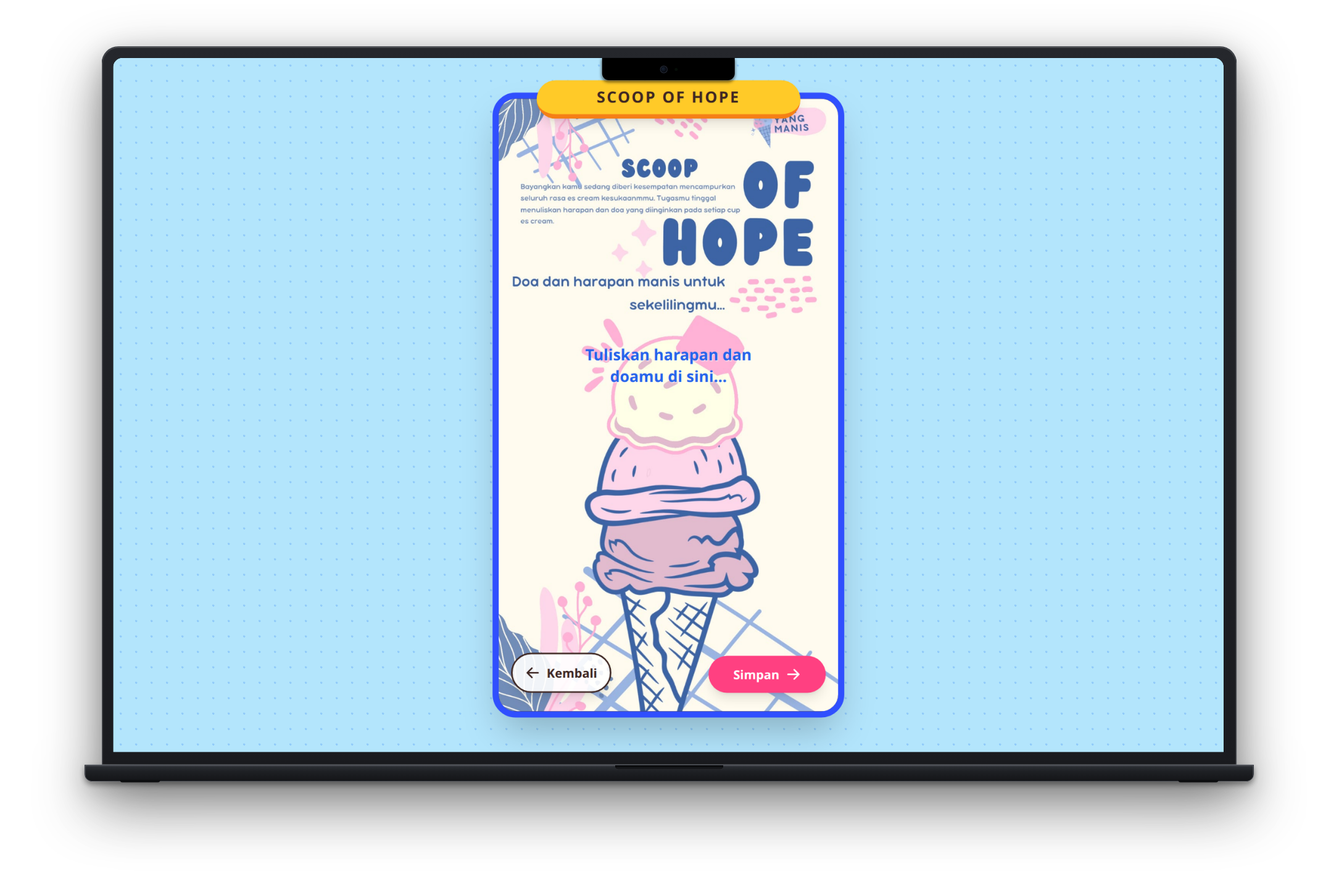
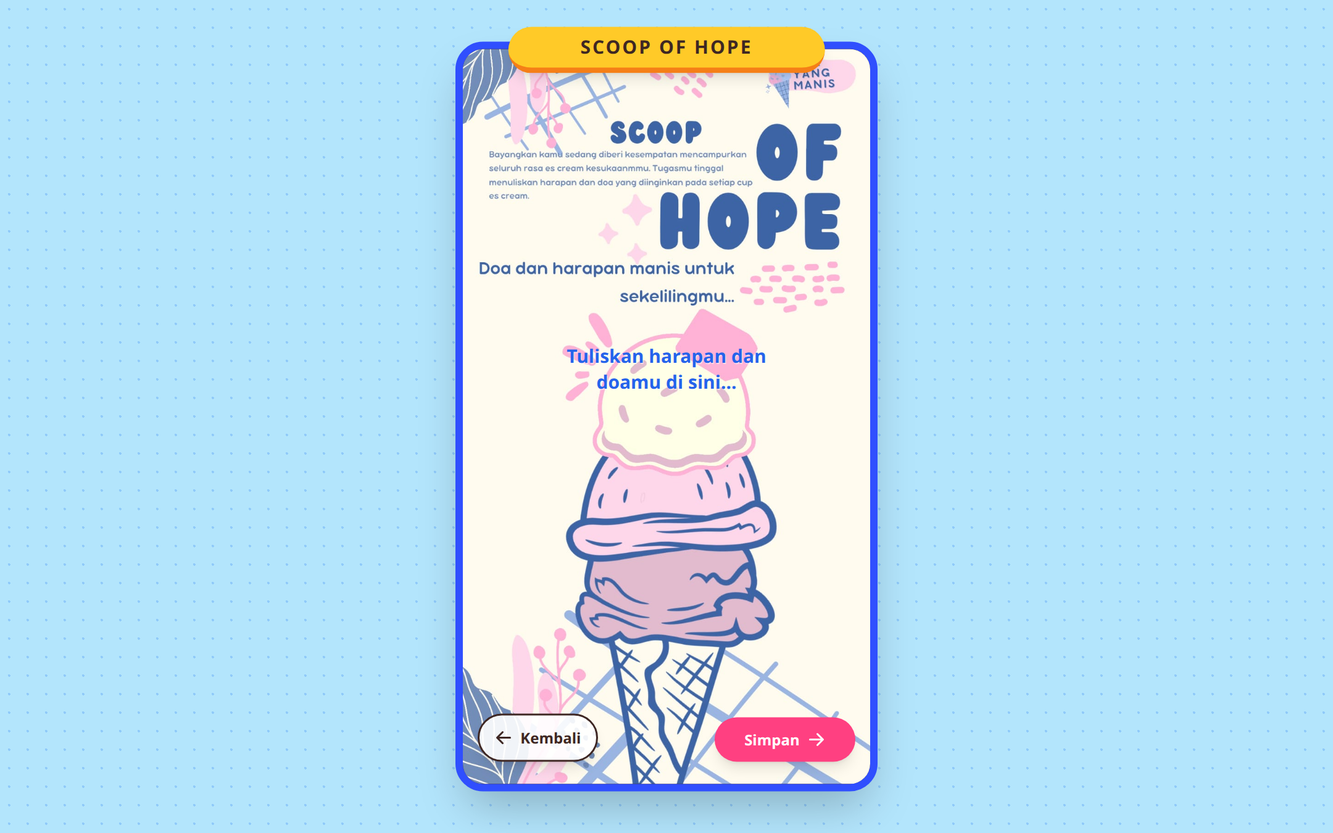
docs: standardize README structure (Judul, Ringkasan, Badge, Live URL, Screenshot, Fitur, Stack, Local Setup, Author), remove slop device frames, verify real screenshots

diff --git a/README.md b/README.md
@@ -1,8 +1,6 @@
 # Book Games
 
-> Interactive gamified educational platform and teacher gradebook built with Next.js 14 and React 18.
-
-Book Games is an educational web application built with Next.js 14 (App Router) and SQLite, migrated from a legacy Spring Boot 3 & MongoDB web application (`legacy-java/`). It features 30 interactive mini-game levels across 5 psychological well-being dimensions, a student adventure progress map with achievement badges, and a teacher portal for student gradebook tracking and Excel export.
+> Platform pembelajaran interaktif berbasis gamifikasi dan buku nilai guru dengan 30 level mini-game refleksi psikologis anak.
 
 [![Next.js](https://img.shields.io/badge/Next.js-14.2.35-black?style=flat-square&logo=nextdotjs)](https://nextjs.org/)
 [![React 18](https://img.shields.io/badge/React-18-61DAFB?style=flat-square&logo=react&logoColor=black)](https://react.dev/)
@@ -10,110 +8,68 @@ Book Games is an educational web application built with Next.js 14 (App Router) 
 [![NextAuth.js](https://img.shields.io/badge/Auth-NextAuth.js_v4-blueviolet?style=flat-square)](https://next-auth.js.org/)
 [![Tailwind CSS](https://img.shields.io/badge/Tailwind-v3.3-38BDF8?style=flat-square&logo=tailwindcss&logoColor=white)](https://tailwindcss.com/)
 [![TypeScript](https://img.shields.io/badge/TypeScript-5.0-3178C6?style=flat-square&logo=typescript&logoColor=white)](https://www.typescriptlang.org/)
+[![Live Demo](https://img.shields.io/badge/Demo-book--games.widifirmaan.web.id-10B981?style=flat-square)](https://book-games.widifirmaan.web.id)
 
 ---
 
-## Showcase
+## Live URL
 
-### Core Platform & Portals
-
-| Desktop | Mobile |
-| :---: | :---: |
-| **Book Games Portal Home Desktop**<br>![Book Games Portal Home Desktop](screenshots/Book%20Games%20Portal%20Home%20Desktop.png) | **Book Games Portal Home Mobile**<br>![Book Games Portal Home Mobile](screenshots/Book%20Games%20Portal%20Home%20Mobile.png) |
-| **Unified Role Auth Portal Desktop**<br>![Unified Role Auth Portal Desktop](screenshots/Unified%20Role%20Auth%20Portal%20Desktop.png) | **Unified Role Auth Portal Mobile**<br>![Unified Role Auth Portal Mobile](screenshots/Unified%20Role%20Auth%20Portal%20Mobile.png) |
-| **Student Adventure Map Desktop**<br>![Student Adventure Map Desktop](screenshots/Student%20Adventure%20Map%20Desktop.png) | **Student Adventure Map Mobile**<br>![Student Adventure Map Mobile](screenshots/Student%20Adventure%20Map%20Mobile.png) |
-| **Teacher Gradebook Analytics Desktop**<br>![Teacher Gradebook Analytics Desktop](screenshots/Teacher%20Gradebook%20Analytics%20Desktop.png) | **Teacher Gradebook Analytics Mobile**<br>![Teacher Gradebook Analytics Mobile](screenshots/Teacher%20Gradebook%20Analytics%20Mobile.png) |
-
-### Dimension 1: Self Acceptance (Levels 1 – 7)
-
-| Desktop | Mobile |
-| :---: | :---: |
-| **Level 1: Word Search Arena Desktop**<br>![Level 1 Word Search Arena Desktop](screenshots/Level%201%20Word%20Search%20Arena%20Desktop.png) | **Level 1: Word Search Arena Mobile**<br>![Level 1 Word Search Arena Mobile](screenshots/Level%201%20Word%20Search%20Arena%20Mobile.png) |
-| **Level 2: Gambar Ekspresi Desktop**<br>![Level 2 Gambar Ekspresi Desktop](screenshots/Level%202%20Gambar%20Ekspresi%20Desktop.png) | **Level 2: Gambar Ekspresi Mobile**<br>![Level 2 Gambar Ekspresi Mobile](screenshots/Level%202%20Gambar%20Ekspresi%20Mobile.png) |
-| **Level 3: Balon Harapan Desktop**<br>![Level 3 Balon Harapan Desktop](screenshots/Level%203%20Balon%20Harapan%20Desktop.png) | **Level 3: Balon Harapan Mobile**<br>![Level 3 Balon Harapan Mobile](screenshots/Level%203%20Balon%20Harapan%20Mobile.png) |
-| **Level 4: Refleksi Diri Desktop**<br>![Level 4 Refleksi Diri Desktop](screenshots/Level%204%20Refleksi%20Diri%20Desktop.png) | **Level 4: Refleksi Diri Mobile**<br>![Level 4 Refleksi Diri Mobile](screenshots/Level%204%20Refleksi%20Diri%20Mobile.png) |
-| **Level 5: Rings Desktop**<br>![Level 5 Rings Desktop](screenshots/Level%205%20Rings%20Desktop.png) | **Level 5: Rings Mobile**<br>![Level 5 Rings Mobile](screenshots/Level%205%20Rings%20Mobile.png) |
-| **Level 6: Refleksi Cermin Desktop**<br>![Level 6 Refleksi Cermin Desktop](screenshots/Level%206%20Refleksi%20Cermin%20Desktop.png) | **Level 6: Refleksi Cermin Mobile**<br>![Level 6 Refleksi Cermin Mobile](screenshots/Level%206%20Refleksi%20Cermin%20Mobile.png) |
-| **Level 7: Refleksi Kotak Desktop**<br>![Level 7 Refleksi Kotak Desktop](screenshots/Level%207%20Refleksi%20Kotak%20Desktop.png) | **Level 7: Refleksi Kotak Mobile**<br>![Level 7 Refleksi Kotak Mobile](screenshots/Level%207%20Refleksi%20Kotak%20Mobile.png) |
-
-### Dimension 2: Environmental (Levels 8 – 12)
-
-| Desktop | Mobile |
-| :---: | :---: |
-| **Level 8: Anxiety Elixir Desktop**<br>![Level 8 Anxiety Elixir Desktop](screenshots/Level%208%20Anxiety%20Elixir%20Desktop.png) | **Level 8: Anxiety Elixir Mobile**<br>![Level 8 Anxiety Elixir Mobile](screenshots/Level%208%20Anxiety%20Elixir%20Mobile.png) |
-| **Level 9: Refleksi Lingkaran Desktop**<br>![Level 9 Refleksi Lingkaran Desktop](screenshots/Level%209%20Refleksi%20Lingkaran%20Desktop.png) | **Level 9: Refleksi Lingkaran Mobile**<br>![Level 9 Refleksi Lingkaran Mobile](screenshots/Level%209%20Refleksi%20Lingkaran%20Mobile.png) |
-| **Level 10: Ekspresi Bebas Canvas Desktop**<br>![Level 10 Ekspresi Bebas Canvas Desktop](screenshots/Level%2010%20Ekspresi%20Bebas%20Canvas%20Desktop.png) | **Level 10: Ekspresi Bebas Canvas Mobile**<br>![Level 10 Ekspresi Bebas Canvas Mobile](screenshots/Level%2010%20Ekspresi%20Bebas%20Canvas%20Mobile.png) |
-| **Level 11: Soundtrack Musik Desktop**<br>![Level 11 Soundtrack Musik Desktop](screenshots/Level%2011%20Soundtrack%20Musik%20Desktop.png) | **Level 11: Soundtrack Musik Mobile**<br>![Level 11 Soundtrack Musik Mobile](screenshots/Level%2011%20Soundtrack%20Musik%20Mobile.png) |
-| **Level 12: Are You Okay Desktop**<br>![Level 12 Are You Okay Desktop](screenshots/Level%2012%20Are%20You%20Okay%20Desktop.png) | **Level 12: Are You Okay Mobile**<br>![Level 12 Are You Okay Mobile](screenshots/Level%2012%20Are%20You%20Okay%20Mobile.png) |
-
-### Dimension 3: Personal Growth (Levels 13 – 24)
-
-| Desktop | Mobile |
-| :---: | :---: |
-| **Level 13: Pohon Harapan Desktop**<br>![Level 13 Pohon Harapan Desktop](screenshots/Level%2013%20Pohon%20Harapan%20Desktop.png) | **Level 13: Pohon Harapan Mobile**<br>![Level 13 Pohon Harapan Mobile](screenshots/Level%2013%20Pohon%20Harapan%20Mobile.png) |
-| **Level 14: Mimpi Terbesar Desktop**<br>![Level 14 Mimpi Terbesar Desktop](screenshots/Level%2014%20Mimpi%20Terbesar%20Desktop.png) | **Level 14: Mimpi Terbesar Mobile**<br>![Level 14 Mimpi Terbesar Mobile](screenshots/Level%2014%20Mimpi%20Terbesar%20Mobile.png) |
-| **Level 15: Refleksi Diri Desktop**<br>![Level 15 Refleksi Diri Desktop](screenshots/Level%2015%20Refleksi%20Diri%20Desktop.png) | **Level 15: Refleksi Diri Mobile**<br>![Level 15 Refleksi Diri Mobile](screenshots/Level%2015%20Refleksi%20Diri%20Mobile.png) |
-| **Level 16: Imajinasi Awan Desktop**<br>![Level 16 Imajinasi Awan Desktop](screenshots/Level%2016%20Imajinasi%20Awan%20Desktop.png) | **Level 16: Imajinasi Awan Mobile**<br>![Level 16 Imajinasi Awan Mobile](screenshots/Level%2016%20Imajinasi%20Awan%20Mobile.png) |
-| **Level 17: Rencana Sticky Notes Desktop**<br>![Level 17 Rencana Sticky Notes Desktop](screenshots/Level%2017%20Rencana%20Sticky%20Notes%20Desktop.png) | **Level 17: Rencana Sticky Notes Mobile**<br>![Level 17 Rencana Sticky Notes Mobile](screenshots/Level%2017%20Rencana%20Sticky%20Notes%20Mobile.png) |
-| **Level 18: Tangga Perubahan 1 Desktop**<br>![Level 18 Tangga Perubahan 1 Desktop](screenshots/Level%2018%20Tangga%20Perubahan%201%20Desktop.png) | **Level 18: Tangga Perubahan 1 Mobile**<br>![Level 18 Tangga Perubahan 1 Mobile](screenshots/Level%2018%20Tangga%20Perubahan%201%20Mobile.png) |
-| **Level 19: Tangga Perubahan 2 Desktop**<br>![Level 19 Tangga Perubahan 2 Desktop](screenshots/Level%2019%20Tangga%20Perubahan%202%20Desktop.png) | **Level 19: Tangga Perubahan 2 Mobile**<br>![Level 19 Tangga Perubahan 2 Mobile](screenshots/Level%2019%20Tangga%20Perubahan%202%20Mobile.png) |
-| **Level 20: Tangga Perubahan 3 Desktop**<br>![Level 20 Tangga Perubahan 3 Desktop](screenshots/Level%2020%20Tangga%20Perubahan%203%20Desktop.png) | **Level 20: Tangga Perubahan 3 Mobile**<br>![Level 20 Tangga Perubahan 3 Mobile](screenshots/Level%2020%20Tangga%20Perubahan%203%20Mobile.png) |
-| **Level 21: Tangga Perubahan 4 Desktop**<br>![Level 21 Tangga Perubahan 4 Desktop](screenshots/Level%2021%20Tangga%20Perubahan%204%20Desktop.png) | **Level 21: Tangga Perubahan 4 Mobile**<br>![Level 21 Tangga Perubahan 4 Mobile](screenshots/Level%2021%20Tangga%20Perubahan%204%20Mobile.png) |
-| **Level 22: Tangga Perubahan 5 Desktop**<br>![Level 22 Tangga Perubahan 5 Desktop](screenshots/Level%2022%20Tangga%20Perubahan%205%20Desktop.png) | **Level 22: Tangga Perubahan 5 Mobile**<br>![Level 22 Tangga Perubahan 5 Mobile](screenshots/Level%2022%20Tangga%20Perubahan%205%20Mobile.png) |
-| **Level 23: Tangga Perubahan 6 Desktop**<br>![Level 23 Tangga Perubahan 6 Desktop](screenshots/Level%2023%20Tangga%20Perubahan%206%20Desktop.png) | **Level 23: Tangga Perubahan 6 Mobile**<br>![Level 23 Tangga Perubahan 6 Mobile](screenshots/Level%2023%20Tangga%20Perubahan%206%20Mobile.png) |
-| **Level 24: Tangga Perubahan 7 Desktop**<br>![Level 24 Tangga Perubahan 7 Desktop](screenshots/Level%2024%20Tangga%20Perubahan%207%20Desktop.png) | **Level 24: Tangga Perubahan 7 Mobile**<br>![Level 24 Tangga Perubahan 7 Mobile](screenshots/Level%2024%20Tangga%20Perubahan%207%20Mobile.png) |
-
-### Dimension 4: Purpose in Life (Levels 25 – 29)
-
-| Desktop | Mobile |
-| :---: | :---: |
-| **Level 25: Eksplorasi Diri Desktop**<br>![Level 25 Eksplorasi Diri Desktop](screenshots/Level%2025%20Eksplorasi%20Diri%20Desktop.png) | **Level 25: Eksplorasi Diri Mobile**<br>![Level 25 Eksplorasi Diri Mobile](screenshots/Level%2025%20Eksplorasi%20Diri%20Mobile.png) |
-| **Level 26: Lingkar Waktu Desktop**<br>![Level 26 Lingkar Waktu Desktop](screenshots/Level%2026%20Lingkar%20Waktu%20Desktop.png) | **Level 26: Lingkar Waktu Mobile**<br>![Level 26 Lingkar Waktu Mobile](screenshots/Level%2026%20Lingkar%20Waktu%20Mobile.png) |
-| **Level 27: Peta Bersyukur Desktop**<br>![Level 27 Peta Bersyukur Desktop](screenshots/Level%2027%20Peta%20Bersyukur%20Desktop.png) | **Level 27: Peta Bersyukur Mobile**<br>![Level 27 Peta Bersyukur Mobile](screenshots/Level%2027%20Peta%20Bersyukur%20Mobile.png) |
-| **Level 28: Kompas Tujuan Desktop**<br>![Level 28 Kompas Tujuan Desktop](screenshots/Level%2028%20Kompas%20Tujuan%20Desktop.png) | **Level 28: Kompas Tujuan Mobile**<br>![Level 28 Kompas Tujuan Mobile](screenshots/Level%2028%20Kompas%20Tujuan%20Mobile.png) |
-| **Level 29: Surat Masa Depan Desktop**<br>![Level 29 Surat Masa Depan Desktop](screenshots/Level%2029%20Surat%20Masa%20Depan%20Desktop.png) | **Level 29: Surat Masa Depan Mobile**<br>![Level 29 Surat Masa Depan Mobile](screenshots/Level%2029%20Surat%20Masa%20Depan%20Mobile.png) |
-
-### Dimension 5: Positive Relations (Level 30)
-
-| Desktop | Mobile |
-| :---: | :---: |
-| **Level 30: Scoop of Hope Desktop**<br>![Level 30 Scoop of Hope Desktop](screenshots/Level%2030%20Scoop%20of%20Hope%20Desktop.png) | **Level 30: Scoop of Hope Mobile**<br>![Level 30 Scoop of Hope Mobile](screenshots/Level%2030%20Scoop%20of%20Hope%20Mobile.png) |
+- **Production URL**: [https://book-games.widifirmaan.web.id](https://book-games.widifirmaan.web.id)
 
 ---
 
-## Features
+## Screenshot
 
-- **30 Gamified Psychological Activities (`app/level/[id]/page.tsx`)**: Educational reflection exercises divided into 5 psychological well-being (PWB) dimensions:
-  - **Self Acceptance (Levels 1–7)**: Word search grid (`Level1WordSearch.tsx`), multi-expression facial sketching (`Level2Drawing.tsx`), hope balloons (`Level3Games.tsx`), mirror reflection, and introspection boxes.
-  - **Environmental Mastery (Levels 8–12)**: Anxiety elixir potion mixing (`Level8Games.tsx`), concentric circle reflection, freehand canvas drawing (`Level10Drawing.tsx`), calming soundtrack audio session, and emotional splash checkpoint.
-  - **Personal Growth (Levels 13–24)**: Tree of hope (`Level13Games.tsx`), biggest dream declaration, cloud imagination, sticky notes action planner, and 7 sequential stages of change stairways (`Level18Games.tsx` – `Level24Games.tsx`).
-  - **Purpose in Life (Levels 25–29)**: Self-exploration questionnaire, three-era time wheel (Dahulu, Sekarang, Esok), gratitude treasure map, goal direction compass, and letter to future self.
-  - **Positive Relations (Level 30)**: Multi-layered ice cream scoop of hope (`Level30IceCream.tsx`) capturing wishes for loved ones and social circles.
-- **Sequential Adventure Progression Map (`app/dashboard/siswa/page.tsx`)**: Student dashboard displaying dynamic level completion counts, category locks/unlocks based on completed prerequisite levels, and achievement badges (`CHAPTER_1_COMPLETE` through `CHAPTER_5_COMPLETE`, and `CONSISTENT_WORKER` 7-day streak awards).
-- **Teacher Gradebook & Analytics (`app/dashboard/guru/page.tsx`)**: Central educator management portal with school and class filtering, student progress tables across all 30 levels with completion status checkmarks, detailed submission response inspection, and 1-click Excel spreadsheet export via SheetJS (`.xlsx`).
-- **Unified Role-Based Authentication (`app/login/page.tsx` & `lib/authOptions.ts`)**: Credentials authentication powered by NextAuth.js separating Teacher (`GURU`) administrative rights from Student (`SISWA`) gameplay sessions.
-- **Relational SQLite Storage (`schema.sql`)**: Relational database schema executing SQL queries with serialized level response maps, submission timestamps, and award notification queues.
-- **HTML5 Canvas Sketching Engine (`Level2Drawing.tsx`, `Level10Drawing.tsx`)**: Responsive drawing canvas supporting freehand pen strokes, color selection, stroke thickness adjustments, undo history, and direct data-URL base64 export.
-- **Interactive Word Search Arena (`Level1WordSearch.tsx`)**: 10x10 matrix word finder with real-time drag-to-select letter highlighting, horizontal/vertical word detection, and audio feedback.
-- **Curriculum Portfolio Showcase (`app/portfolio/page.tsx`)**: Printable digital curriculum overview displaying comprehensive activity modules and visual documentation.
+| Desktop | Mobile |
+| :---: | :---: |
+| **Portal Beranda Utama**<br>![Beranda](screenshots/Beranda%20Desktop.png) | **Portal Beranda Utama**<br>![Beranda](screenshots/Beranda%20Mobile.png) |
+| **Autentikasi Login Peran Terpadu**<br>![Login](screenshots/Login%20Desktop.png) | **Autentikasi Login Peran Terpadu**<br>![Login](screenshots/Login%20Mobile.png) |
+| **Peta Petualangan Siswa (Adventure Map)**<br>![Petualangan Siswa](screenshots/Petualangan%20Siswa%20Desktop.png) | **Peta Petualangan Siswa (Adventure Map)**<br>![Petualangan Siswa](screenshots/Petualangan%20Siswa%20Mobile.png) |
+| **Buku Nilai Guru & Rekapitulasi Kelas**<br>![Dashboard Guru](screenshots/Dashboard%20Guru%20Desktop.png) | **Buku Nilai Guru & Rekapitulasi Kelas**<br>![Dashboard Guru](screenshots/Dashboard%20Guru%20Mobile.png) |
+| **Level 1: Matriks Word Search**<br>![Level 1 Word Search](screenshots/Level%201%20Word%20Search%20Desktop.png) | **Level 1: Matriks Word Search**<br>![Level 1 Word Search](screenshots/Level%201%20Word%20Search%20Mobile.png) |
+| **Level 2: Sketsa Wajah Ekspresi**<br>![Level 2 Gambar](screenshots/Level%202%20Gambar%20Desktop.png) | **Level 2: Sketsa Wajah Ekspresi**<br>![Level 2 Gambar](screenshots/Level%202%20Gambar%20Mobile.png) |
+| **Level 3: Balon Harapan Interaktif**<br>![Level 3 Balon Harapan](screenshots/Level%203%20Balon%20Harapan%20Desktop.png) | **Level 3: Balon Harapan Interaktif**<br>![Level 3 Balon Harapan](screenshots/Level%203%20Balon%20Harapan%20Mobile.png) |
+| **Level 8: Ramuan Anxiety Elixir**<br>![Level 8 Anxiety Elixir](screenshots/Level%208%20Anxiety%20Elixir%20Desktop.png) | **Level 8: Ramuan Anxiety Elixir**<br>![Level 8 Anxiety Elixir](screenshots/Level%208%20Anxiety%20Elixir%20Mobile.png) |
+| **Level 10: Kanvas Gambar Ekspresi Bebas**<br>![Level 10 Canvas](screenshots/Level%2010%20Canvas%20Desktop.png) | **Level 10: Kanvas Gambar Ekspresi Bebas**<br>![Level 10 Canvas](screenshots/Level%2010%20Canvas%20Mobile.png) |
+| **Level 13: Daun Pohon Harapan**<br>![Level 13 Pohon Harapan](screenshots/Level%2013%20Pohon%20Harapan%20Desktop.png) | **Level 13: Daun Pohon Harapan**<br>![Level 13 Pohon Harapan](screenshots/Level%2013%20Pohon%20Harapan%20Mobile.png) |
+| **Level 25: Eksplorasi Minat & Bakat Diri**<br>![Level 25 Eksplorasi Diri](screenshots/Level%2025%20Eksplorasi%20Diri%20Desktop.png) | **Level 25: Eksplorasi Minat & Bakat Diri**<br>![Level 25 Eksplorasi Diri](screenshots/Level%2025%20Eksplorasi%20Diri%20Mobile.png) |
+| **Level 30: Es Krim Scoop of Hope**<br>![Level 30 Scoop of Hope](screenshots/Level%2030%20Scoop%20of%20Hope%20Desktop.png) | **Level 30: Es Krim Scoop of Hope**<br>![Level 30 Scoop of Hope](screenshots/Level%2030%20Scoop%20of%20Hope%20Mobile.png) |
+| **Portofolio Ringkasan Kurikulum**<br>![Portofolio Kurikulum](screenshots/Portofolio%20Kurikulum%20Desktop.png) | **Portofolio Ringkasan Kurikulum**<br>![Portofolio Kurikulum](screenshots/Portofolio%20Kurikulum%20Mobile.png) |
+
+---
+
+## Fitur
+
+- **30 Level Aktivitas Refleksi Gamifikasi (`app/level/[id]/page.tsx`)**: Aktivitas pembelajaran yang terbagi ke dalam 5 dimensi *Psychological Well-Being* (PWB):
+  - **Dimensi 1: Self Acceptance (Level 1–7)**: Pencarian kata karakter diri (`Level1WordSearch.tsx`), kanvas gambar ekspresi emosi (`Level2Drawing.tsx`), pelepasan balon harapan (`Level3Games.tsx`), cermin refleksi, dan kotak penerimaan diri.
+  - **Dimensi 2: Environmental Mastery (Level 8–12)**: Peracikan ramuan penenang kecemasan (`Level8Games.tsx`), lingkaran pengaruh, kanvas gambar bebas (`Level10Drawing.tsx`), pemutar musik relaksasi, dan penilaian kondisi emosi harian.
+  - **Dimensi 3: Personal Growth (Level 13–24)**: Penanaman daun harapan pada pohon cita-cita (`Level13Games.tsx`), penulisan impian terbesar, imajinasi awan, catatan tempel resolusi, dan 7 tangga tahapan perubahan bertahap (`Level18Games.tsx` s/d `Level24Games.tsx`).
+  - **Dimensi 4: Purpose in Life (Level 25–29)**: Kuisioner eksplorasi potensi diri, roda waktu 3 era (Dahulu, Sekarang, Esok), peta harta karun rasa syukur, kompas penentu arah tujuan hidup, dan surat untuk diri di masa depan.
+  - **Dimensi 5: Positive Relations (Level 30)**: Penyusunan sendok es krim harapan multi-rasa (`Level30IceCream.tsx`) yang mewakili doa untuk orang tua, sahabat, dan lingkungan sekitar.
+- **Peta Petualangan Siswa (`app/dashboard/siswa/page.tsx`)**: Dashboard visual bertahap dengan penanda level aktif, penggembokan level berikutnya sebelum level prasyarat terselesaikan, serta pembagian lencana pencapaian (*achievement badges*).
+- **Buku Nilai Guru & Ekspor Excel (`app/dashboard/guru/page.tsx`)**: Portal pemantauan bagi pendidik dengan filter berdasarkan sekolah dan rombongan belajar (kelas), matriks centang penyelesaian tugas siswa pada 30 level, inspeksi jawaban refleksi, dan tombol ekspor langsung ke spreadsheet Excel (`.xlsx`) via SheetJS.
+- **Autentikasi Multi-Peran Terpadu (`app/login/page.tsx`)**: Manajemen sesi login berbasis NextAuth.js yang memisahkan akses Guru (`GURU`) dan Siswa (`SISWA`).
+- **Basis Data Relasional SQLite (`schema.sql`)**: Penyimpanan progres siswa, status submission jawaban, durasi pengerjaan, dan riwayat perolehan badge menggunakan format JSON terstruktur di dalam tabel `users`.
+- **Kanvas Gambar HTML5 Interaktif**: Fitur melukis bebas dengan pengaturan palet warna, ukuran kuas, tombol undo, dan ekspor data URL base64 ke penyimpanan database.
 
 ---
 
 ## Tech Stack
 
-| Category | Technologies | Purpose |
+| Kategori | Teknologi | Deskripsi / Peran |
 | :--- | :--- | :--- |
-| **Core Framework** | Next.js `14.2.35`, React `18.2.0` | App Router, Server Components, and API Route backend endpoints |
-| **Database** | SQLite 3 | Relational database storing user profiles and level progress records |
-| **Authentication** | NextAuth.js `4.24.5` | Role-based credential session handling and route protection |
-| **Spreadsheet Engine** | SheetJS (xlsx) `0.18.5` | Client-side grade report compilation and XLSX binary export |
-| **Styling & UI** | Tailwind CSS `3.3.0` | Accessible kid-friendly color palettes and responsive grid layouts |
+| **Framework Utama** | Next.js `14.2.35` (App Router), React `18.2.0` | Server Components, routing modular, dan API Routes backend |
+| **Basis Data** | SQLite 3 | Relasional database lokal untuk akun, status level, dan jawaban refleksi |
+| **Autentikasi** | NextAuth.js `4.24.5` | Manajemen sesi login berbasis kredensial role GURU / SISWA |
+| **Ekspor Data** | SheetJS (xlsx) `0.18.5` | Kompilasi data tabel buku nilai ke file spreadsheet binary `.xlsx` |
+| **Styling** | Tailwind CSS `3.3.0` | Desain antarmuka ceria ramah anak dengan palet warna cerah |
+| **Type System** | TypeScript `5.0` | Pengetikan statis komponen level dan payload response |
 
 ---
 
 ## Database Architecture
 
-Book Games utilizes SQLite to persist student gameplay, timestamps, daily submissions, and teacher records. The schema (`schema.sql`) organizes data with JSON serialization:
+Book Games menyimpan profil, progres permainan, dan rekap nilai dalam tabel relasional SQLite (`schema.sql`):
 
 ```sql
 CREATE TABLE users (
@@ -127,12 +83,12 @@ CREATE TABLE users (
     schoolName TEXT,
     photoUrl TEXT,
     level INTEGER DEFAULT 1,
-    levels TEXT DEFAULT '{}',               -- Serialized Level completion map
-    indukStartTimes TEXT DEFAULT '{}',      -- Session start timestamps
-    indukEndTimes TEXT DEFAULT '{}',        -- Session finish timestamps
-    dailySubmissions TEXT DEFAULT '{}',     -- Daily progress records
-    awards TEXT DEFAULT '[]',               -- Earned achievement badge IDs
-    newAwardsToNotify TEXT DEFAULT '[]',    -- Pending notification queue
+    levels TEXT DEFAULT '{}',               -- JSON peta penyelesaian level
+    indukStartTimes TEXT DEFAULT '{}',      -- Waktu mulai sesi
+    indukEndTimes TEXT DEFAULT '{}',        -- Waktu selesai sesi
+    dailySubmissions TEXT DEFAULT '{}',     -- Catatan tugas harian
+    awards TEXT DEFAULT '[]',               -- Daftar ID lencana pencapaian
+    newAwardsToNotify TEXT DEFAULT '[]',    -- Antrean notifikasi badge baru
     createdAt TEXT DEFAULT (datetime('now')),
     updatedAt TEXT DEFAULT (datetime('now'))
 );
@@ -143,101 +99,69 @@ CREATE INDEX idx_users_username ON users(username);
 
 ---
 
-## Project Structure
+## Panduan Setup & Menjalankan Lokal
 
-```bash
-/
-├── app/
-│   ├── level/[id]/          # Dynamic educational game routes (Levels 1-30)
-│   ├── dashboard/
-│   │   ├── guru/            # Teacher analytics and student score tracking
-│   │   └── siswa/           # Student level progression adventure map
-│   ├── login/               # Unified role authentication portal
-│   ├── portfolio/           # Interactive showcase and curriculum overview
-│   ├── api/                 # NextAuth, level scoring, user management, and seed endpoints
-│   ├── components/          # 30 individual LevelGame React components
-│   └── page.tsx             # Public landing portal
-├── lib/                     # Database connection, User model, and game curriculum data
-├── legacy-java/             # Original Spring Boot 3 & MongoDB web application source
-├── schema.sql               # SQLite database schema and pre-seeded demo records
-├── screenshots/             # Showcase mockups
-├── package.json
-└── README.md
-```
+### 1. Prasyarat Sistem
 
----
-
-## Local Setup & Deployment
-
-### 1. Prerequisites
-
-- **Node.js**: Version `18.17.0` or higher (`20.x` recommended)
-- **npm** or **pnpm**
+- **Node.js**: Versi `18.17.0` atau lebih tinggi (`20.x` direkomendasikan)
+- **npm** atau **pnpm**
 - **SQLite 3**: Native CLI (`sqlite3`)
 
-### 2. Environment Variables Setup
+### 2. Environment Variables
 
-Create a `.env.local` file in the root directory by copying the provided `.env.example`:
-
-```bash
-cp .env.example .env.local
-```
-
-Configure the following variables in `.env.local`:
+Buat file `.env.local` pada direktori root proyek:
 
 ```env
-NEXTAUTH_SECRET=your_super_secret_key_here
+NEXTAUTH_SECRET=super_secret_local_dev_key_12345
 NEXTAUTH_URL=http://localhost:3000
 ```
 
-### 3. Installation & Setup Database Lokal
-
-Inisialisasi skema tabel dan data awal (seeder) ke database SQLite lokal:
+### 3. Instalasi Dependensi
 
 ```bash
-# Clone the repository
+# Clone repository
 git clone https://github.com/widifirmaan/nextjs-book-games.git
 cd nextjs-book-games
 
-# Install dependencies
+# Install package
 npm install
+```
 
-# Setup SQLite database & demo seeder
+### 4. Setup Database & Seeder Lokal
+
+Inisialisasi tabel dan akun demo seeder ke database SQLite lokal:
+
+```bash
+# Inisialisasi skema dan data awal
 sqlite3 local.db < schema.sql
 
 # Atau via npm script
 npm run db:setup
 ```
 
-#### Demo Seeder Accounts:
-Data awal akun demo telah disertakan langsung di dalam `schema.sql`:
+#### Akun Pengguna Bawaan (Seeder):
+- **Akun Guru**: Username `guru` / Password `password` (Akses buku nilai, tabel rekap, dan unduh Excel)
+- **Akun Siswa**: Username `siswa` / Password `password` (Akses peta petualangan 30 level mini-game)
 
-| Role | Username | Password | Default Route | Accessible Features |
-| :--- | :--- | :--- | :--- | :--- |
-| **Guru (Teacher)** | `guru` | `password` | `/dashboard/guru` | Rekap nilai siswa, filter kelas/sekolah, export Excel `.xlsx` |
-| **Siswa (Student)** | `siswa` | `password` | `/dashboard/siswa` | Peta petualangan 30 level mini-game, badges, progress tracker |
-
-### 4. Menjalankan Server Lokal
+### 5. Menjalankan Server Lokal
 
 ```bash
-# Jalankan server frontend Next.js
+# Jalankan server Next.js lokal
 npm run dev
 ```
 
 Buka [http://localhost:3000](http://localhost:3000) di browser Anda.
 
-### 5. Panduan Uji Manual (Testing Checklist)
+### 6. Panduan Uji Manual (Testing Checklist)
 
-Lakukan verifikasi manual berikut di browser:
-
-| No | Fitur yang Diuji | Langkah Pengujian | Hasil yang Diharapkan |
+| No | Fitur | Langkah Pengujian | Hasil yang Diharapkan |
 | :---: | :--- | :--- | :--- |
-| 1 | **Login Portal Guru** | Buka `/login`, login dengan `guru` / `password` | Masuk ke dashboard guru (`/dashboard/guru`) |
-| 2 | **Gradebook & Export** | Buka tabel siswa di `/dashboard/guru`, klik tombol Export | File rekapitulasi nilai `.xlsx` terunduh dengan benar via SheetJS |
+| 1 | **Login Guru** | Buka `/login`, login dengan akun `guru` / `password` | Masuk ke dashboard guru (`/dashboard/guru`) |
+| 2 | **Unduh Excel** | Di dashboard guru, klik tombol *Export Excel* | File spreadsheet rekap nilai `.xlsx` berhasil diunduh via SheetJS |
 | 3 | **Login Siswa** | Logout, login dengan `siswa` / `password` | Masuk ke peta petualangan siswa (`/dashboard/siswa`) |
-| 4 | **Game Level 1** | Klik level 1 (`/level/1`) | Arena Word Search tampil interaktif, bisa drag kata dan terselesaikan |
-| 5 | **Canvas Drawing Level 2** | Lanjut ke `/level/2` | HTML5 Drawing canvas aktif, dapat menggambar ekspresi, ganti warna, dan submit |
-| 6 | **Curriculum Showcase** | Buka `/portfolio` | Halaman ringkasan kurikulum pembelajaran tampil lengkap |
+| 4 | **Game Level 1** | Buka `/level/1` | Permainan Word Search termuat interaktif, huruf dapat di-drag dan kata tersorot |
+| 5 | **Kanvas Gambar Level 2** | Buka `/level/2` | Kanvas HTML5 dapat dicoret menggunakan mouse/touch, palet warna berganti, dan tombol submit berfungsi |
+| 6 | **Portofolio** | Buka `/portfolio` | Halaman etalase kurikulum 30 modul aktivitas refleksi tampil lengkap |
 
 ---
 
